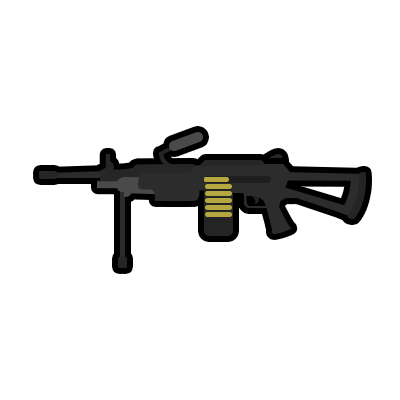
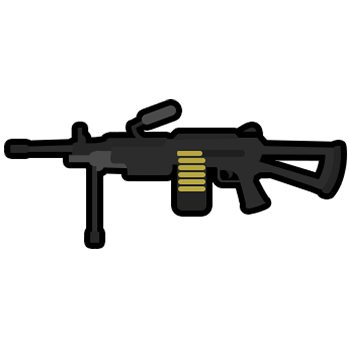
new sheet with new guns

Changed region(s): [[0.0, 0.2857, 1.0, 0.7143]]

diff --git a/brWrapRenderer/display.html b/brWrapRenderer/display.html
@@ -25,6 +25,13 @@
             <span id="addedwraps" style="color:white"></span>
             <input type="text" placeholder="wrapname" id="reholder">
             <input onclick="runReRender()" type="button" value="Re-Render Wrap">
+            <br>
+            <br>
+            <br>
+            <span style="color:white">Made by:</span>
+            <span style="color:white">alez - coding, regreens, sheet generator</span>
+            <span style="color:white">theGiantSlug - regreens</span>
+
         </div>
     </div>
     <img id="greensheet" src="./greensheet.png" style="display: none;">
@@ -32,9 +39,10 @@
     <div id="wrapholders">
     </div>
     <script>
-        let original = ['wrap', 'scar', 'shotgun', 'bolt', 'deagle', 'autoshotgun', 'musket', 'heavy sniper', 'rifle', 'famas', 'smg', 'ump', 'scoped ar', 'tommy gun', 'rpg', 'ak47', 'combat'];
+        let original = ['wrap', 'scar', 'shotgun', 'bolt', 'deagle', 'autoshotgun', 'musket', 'heavy sniper', 'rifle', 'famas', 'smg', 'ump', 'scoped ar', 'tommy gun', 'rpg', 'ak47', 'combat', 'aug', 'lmg', 'burst shotgun'];
         let length = original.length;
-        for (let i = 1; i < length + 1; i++) {
+        for (let i = 0; i < length; i++) {
+            if (original[i] === 'wrap') continue;
             original.push(`top${original[i]}`);
         }
 
